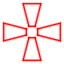
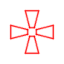
feature: implemented action markers

Changed region(s): [[0.0312, 0.0312, 0.9688, 0.9688]]

diff --git a/rts_client/scenerenderer.cpp b/rts_client/scenerenderer.cpp
@@ -16,6 +16,8 @@ SceneRenderer::SceneRenderer ()
     unit_set_renderer = QSharedPointer<UnitSetRenderer>::create (red_player_color, blue_player_color);
     effect_renderer = QSharedPointer<EffectRenderer>::create ();
     textures.ground = loadTexture2D (":/images/ground.png");
+    textures.action_markers.attack = loadTexture2DRectangle (":/images/action-markers/attack.png");
+    textures.action_markers.movement = loadTexture2DRectangle (":/images/action-markers/movement.png");
 }
 
 void SceneRenderer::draw (QOpenGLFunctions& gl, ColoredRenderer& colored_renderer, ColoredTexturedRenderer& colored_textured_renderer, TexturedRenderer& textured_renderer,
@@ -30,6 +32,7 @@ void SceneRenderer::draw (QOpenGLFunctions& gl, ColoredRenderer& colored_rendere
     drawUnitPaths (gl, colored_renderer, match_state, team, ortho_matrix, coord_map);
     drawUnitStats (gl, colored_renderer, match_state, ortho_matrix, coord_map);
     drawSelectionBar (gl, colored_renderer, cursor_position, selection_start, ortho_matrix);
+    drawActionMarkers (gl, textured_renderer, match_state, team, ortho_matrix, coord_map);
 }
 void SceneRenderer::drawBackground (QOpenGLFunctions& gl, TexturedRenderer& textured_renderer,
                                     MatchState& match_state,
@@ -169,17 +172,139 @@ void SceneRenderer::drawSelectionBar (QOpenGLFunctions& gl, ColoredRenderer& col
         );
     }
 }
+void SceneRenderer::drawActionMarkers (QOpenGLFunctions& gl, TexturedRenderer& textured_renderer,
+                                       MatchState& match_state, Unit::Team team,
+                                       const QMatrix4x4& ortho_matrix, const CoordMap& coord_map)
+{
+    std::set<Position> move_points;
+    std::set<uint32_t> move_units;
+    std::set<Position> attack_points;
+    std::set<uint32_t> attack_units;
+    std::set<Position> cast_points;
+
+    const std::map<uint32_t, Unit>& units = match_state.unitsRef ();
+    for (std::map<uint32_t, Unit>::const_iterator it = units.begin (); it != units.end (); ++it) {
+        const Unit& unit = it->second;
+        if (unit.team == team && unit.selected) {
+            const UnitActionVariant& action = unit.action;
+            if (std::holds_alternative<MoveAction> (action)) {
+                const MoveAction& move_action = std::get<MoveAction> (action);
+                const std::variant<Position, uint32_t>& target = move_action.target;
+                if (std::holds_alternative<Position> (target)) {
+                    move_points.insert (std::get<Position> (target));
+                } else {
+                    move_units.insert (std::get<uint32_t> (target));
+                }
+            } else if (std::holds_alternative<AttackAction> (action)) {
+                const AttackAction& attack_action = std::get<AttackAction> (action);
+                const std::variant<Position, uint32_t>& target = attack_action.target;
+                if (std::holds_alternative<Position> (target)) {
+                    attack_points.insert (std::get<Position> (target));
+                } else {
+                    attack_units.insert (std::get<uint32_t> (target));
+                }
+            } else if (std::holds_alternative<CastAction> (action)) {
+                const CastAction& cast_action = std::get<CastAction> (action);
+                cast_points.insert (cast_action.target);
+            } else if (std::holds_alternative<PerformingAttackAction> (action)) {
+                const PerformingAttackAction& performing_attack_action = std::get<PerformingAttackAction> (action);
+                const IntentiveActionVariant& next_action = performing_attack_action.next_action;
+                if (std::holds_alternative<MoveAction> (next_action)) {
+                    const MoveAction& move_action = std::get<MoveAction> (next_action);
+                    const std::variant<Position, uint32_t>& target = move_action.target;
+                    if (std::holds_alternative<Position> (target)) {
+                        move_points.insert (std::get<Position> (target));
+                    } else {
+                        move_units.insert (std::get<uint32_t> (target));
+                    }
+                } else if (std::holds_alternative<AttackAction> (next_action)) {
+                    const AttackAction& attack_action = std::get<AttackAction> (next_action);
+                    const std::variant<Position, uint32_t>& target = attack_action.target;
+                    if (std::holds_alternative<Position> (target)) {
+                        attack_points.insert (std::get<Position> (target));
+                    } else {
+                        attack_units.insert (std::get<uint32_t> (target));
+                    }
+                } else if (std::holds_alternative<CastAction> (next_action)) {
+                    const CastAction& cast_action = std::get<CastAction> (next_action);
+                    cast_points.insert (cast_action.target);
+                }
+            } else if (std::holds_alternative<PerformingCastAction> (action)) {
+                const PerformingCastAction& performing_cast_action = std::get<PerformingCastAction> (action);
+                const IntentiveActionVariant& next_action = performing_cast_action.next_action;
+                if (std::holds_alternative<MoveAction> (next_action)) {
+                    const MoveAction& move_action = std::get<MoveAction> (next_action);
+                    const std::variant<Position, uint32_t>& target = move_action.target;
+                    if (std::holds_alternative<Position> (target)) {
+                        move_points.insert (std::get<Position> (target));
+                    } else {
+                        move_units.insert (std::get<uint32_t> (target));
+                    }
+                } else if (std::holds_alternative<AttackAction> (next_action)) {
+                    const AttackAction& attack_action = std::get<AttackAction> (next_action);
+                    const std::variant<Position, uint32_t>& target = attack_action.target;
+                    if (std::holds_alternative<Position> (target)) {
+                        attack_points.insert (std::get<Position> (target));
+                    } else {
+                        attack_units.insert (std::get<uint32_t> (target));
+                    }
+                } else if (std::holds_alternative<CastAction> (next_action)) {
+                    const CastAction& cast_action = std::get<CastAction> (next_action);
+                    cast_points.insert (cast_action.target);
+                }
+            }
+        }
+    }
+
+    // TODO: Group as single operation
+    for (const Position& position: move_points) {
+        QOpenGLTexture* texture = &*textures.action_markers.movement;
+        Position screen_position = coord_map.toScreenCoords (position);
+        textured_renderer.fillRectangle (gl, screen_position.x () - texture->width () / 2, screen_position.y () - texture->height () / 2, texture, ortho_matrix);
+    }
+    for (const uint32_t& unit_id: move_units) {
+        std::map<uint32_t, Unit>::const_iterator unit_it = units.find (unit_id);
+        if (unit_it != units.end ()) {
+            const Unit& unit = unit_it->second;
+            QOpenGLTexture* texture = &*textures.action_markers.movement;
+            Position screen_position = coord_map.toScreenCoords (unit.position);
+            textured_renderer.fillRectangle (gl, screen_position.x () - texture->width () / 2, screen_position.y () - texture->height () / 2, texture, ortho_matrix);
+        }
+    }
+
+    // TODO: Group as single operation
+    for (const Position& position: attack_points) {
+        QOpenGLTexture* texture = &*textures.action_markers.attack;
+        Position screen_position = coord_map.toScreenCoords (position);
+        textured_renderer.fillRectangle (gl, screen_position.x () - texture->width () / 2, screen_position.y () - texture->height () / 2, texture, ortho_matrix);
+    }
+    for (const uint32_t& unit_id: attack_units) {
+        std::map<uint32_t, Unit>::const_iterator unit_it = units.find (unit_id);
+        if (unit_it != units.end ()) {
+            const Unit& unit = unit_it->second;
+            QOpenGLTexture* texture = &*textures.action_markers.attack;
+            Position screen_position = coord_map.toScreenCoords (unit.position);
+            textured_renderer.fillRectangle (gl, screen_position.x () - texture->width () / 2, screen_position.y () - texture->height () / 2, texture, ortho_matrix);
+        }
+    }
+    for (const Position& position: cast_points) {
+        QOpenGLTexture* texture = &*textures.action_markers.attack;
+        Position screen_position = coord_map.toScreenCoords (position);
+        textured_renderer.fillRectangle (gl, screen_position.x () - texture->width () / 2, screen_position.y () - texture->height () / 2, texture, ortho_matrix);
+    }
+}
 const Position* SceneRenderer::getUnitTargetPosition (const Unit& unit, MatchState& match_state)
 {
-    if (std::holds_alternative<StopAction> (unit.action) ||
-        std::holds_alternative<MoveAction> (unit.action) ||
-        std::holds_alternative<AttackAction> (unit.action) ||
-        std::holds_alternative<CastAction> (unit.action)) {
-        return getUnitTargetPosition (unit.action, match_state);
-    } else if (std::holds_alternative<PerformingAttackAction> (unit.action)) {
-        return getUnitTargetPosition (std::get<PerformingAttackAction> (unit.action).next_action, match_state);
-    } else if (std::holds_alternative<PerformingCastAction> (unit.action)) {
-        return getUnitTargetPosition (std::get<PerformingCastAction> (unit.action).next_action, match_state);
+    const UnitActionVariant& action = unit.action;
+    if (std::holds_alternative<StopAction> (action) ||
+        std::holds_alternative<MoveAction> (action) ||
+        std::holds_alternative<AttackAction> (action) ||
+        std::holds_alternative<CastAction> (action)) {
+        return getUnitTargetPosition (action, match_state);
+    } else if (std::holds_alternative<PerformingAttackAction> (action)) {
+        return getUnitTargetPosition (std::get<PerformingAttackAction> (action).next_action, match_state);
+    } else if (std::holds_alternative<PerformingCastAction> (action)) {
+        return getUnitTargetPosition (std::get<PerformingCastAction> (action).next_action, match_state);
     }
     return nullptr;
 }
@@ -251,5 +376,18 @@ QSharedPointer<QOpenGLTexture> SceneRenderer::loadTexture2D (const QString& path
     QOpenGLTexture* texture = new QOpenGLTexture (QImage (path));
     texture->setMinificationFilter (QOpenGLTexture::LinearMipMapLinear);
     texture->setMagnificationFilter (QOpenGLTexture::LinearMipMapLinear);
+    return QSharedPointer<QOpenGLTexture> (texture);
+}
+QSharedPointer<QOpenGLTexture> SceneRenderer::loadTexture2DRectangle (const QString& path)
+{
+    QImage image = QImage (path).convertToFormat (QImage::Format_RGBA8888);
+    QOpenGLTexture* texture = new QOpenGLTexture (QOpenGLTexture::TargetRectangle);
+    texture->setFormat (QOpenGLTexture::QOpenGLTexture::RGBAFormat);
+    texture->setSize (image.width (), image.height ());
+    texture->allocateStorage ();
+    texture->setData (QOpenGLTexture::RGBA, QOpenGLTexture::UInt8, image.bits ());
+    texture->setLevelOfDetailRange (0, 0);
+    texture->setMinificationFilter (QOpenGLTexture::Nearest);
+    texture->setMagnificationFilter (QOpenGLTexture::Nearest);
     return QSharedPointer<QOpenGLTexture> (texture);
 }

diff --git a/rts_client/scenerenderer.h b/rts_client/scenerenderer.h
@@ -53,10 +53,14 @@ private:
     void drawSelectionBar (QOpenGLFunctions& gl, ColoredRenderer& colored_renderer,
                            const QPoint& cursor_position, const std::optional<QPoint>& selection_start,
                            const QMatrix4x4& ortho_matrix);
+    void drawActionMarkers (QOpenGLFunctions& gl, TexturedRenderer& textured_renderer,
+                            MatchState& match_state, Unit::Team team,
+                            const QMatrix4x4& ortho_matrix, const CoordMap& coord_map);
     const Position* getUnitTargetPosition (const Unit& unit, MatchState& match_state);
     const Position* getUnitTargetPosition (const UnitActionVariant& unit_action, MatchState& match_state);
     const Position* getUnitTargetPosition (const IntentiveActionVariant& unit_action, MatchState& match_state);
     QSharedPointer<QOpenGLTexture> loadTexture2D (const QString& path);
+    QSharedPointer<QOpenGLTexture> loadTexture2DRectangle (const QString& path);
 
 private:
     QColor red_player_color = QColor (0xf1, 0x4b, 0x2c);
@@ -65,5 +69,9 @@ private:
     QSharedPointer<EffectRenderer> effect_renderer;
     struct {
         QSharedPointer<QOpenGLTexture> ground;
+        struct {
+            QSharedPointer<QOpenGLTexture> attack;
+            QSharedPointer<QOpenGLTexture> movement;
+        } action_markers;
     } textures;
 };

diff --git a/match_state/position.h b/match_state/position.h
@@ -52,6 +52,10 @@ public:
         x_ -= offset.dX ();
         y_ -= offset.dY ();
     }
+    bool operator< (const Position& b) const
+    {
+        return y_ < b.y_ || (y_ == b.y_ && x_ < b.x_);
+    }
 
 private:
     double x_;
